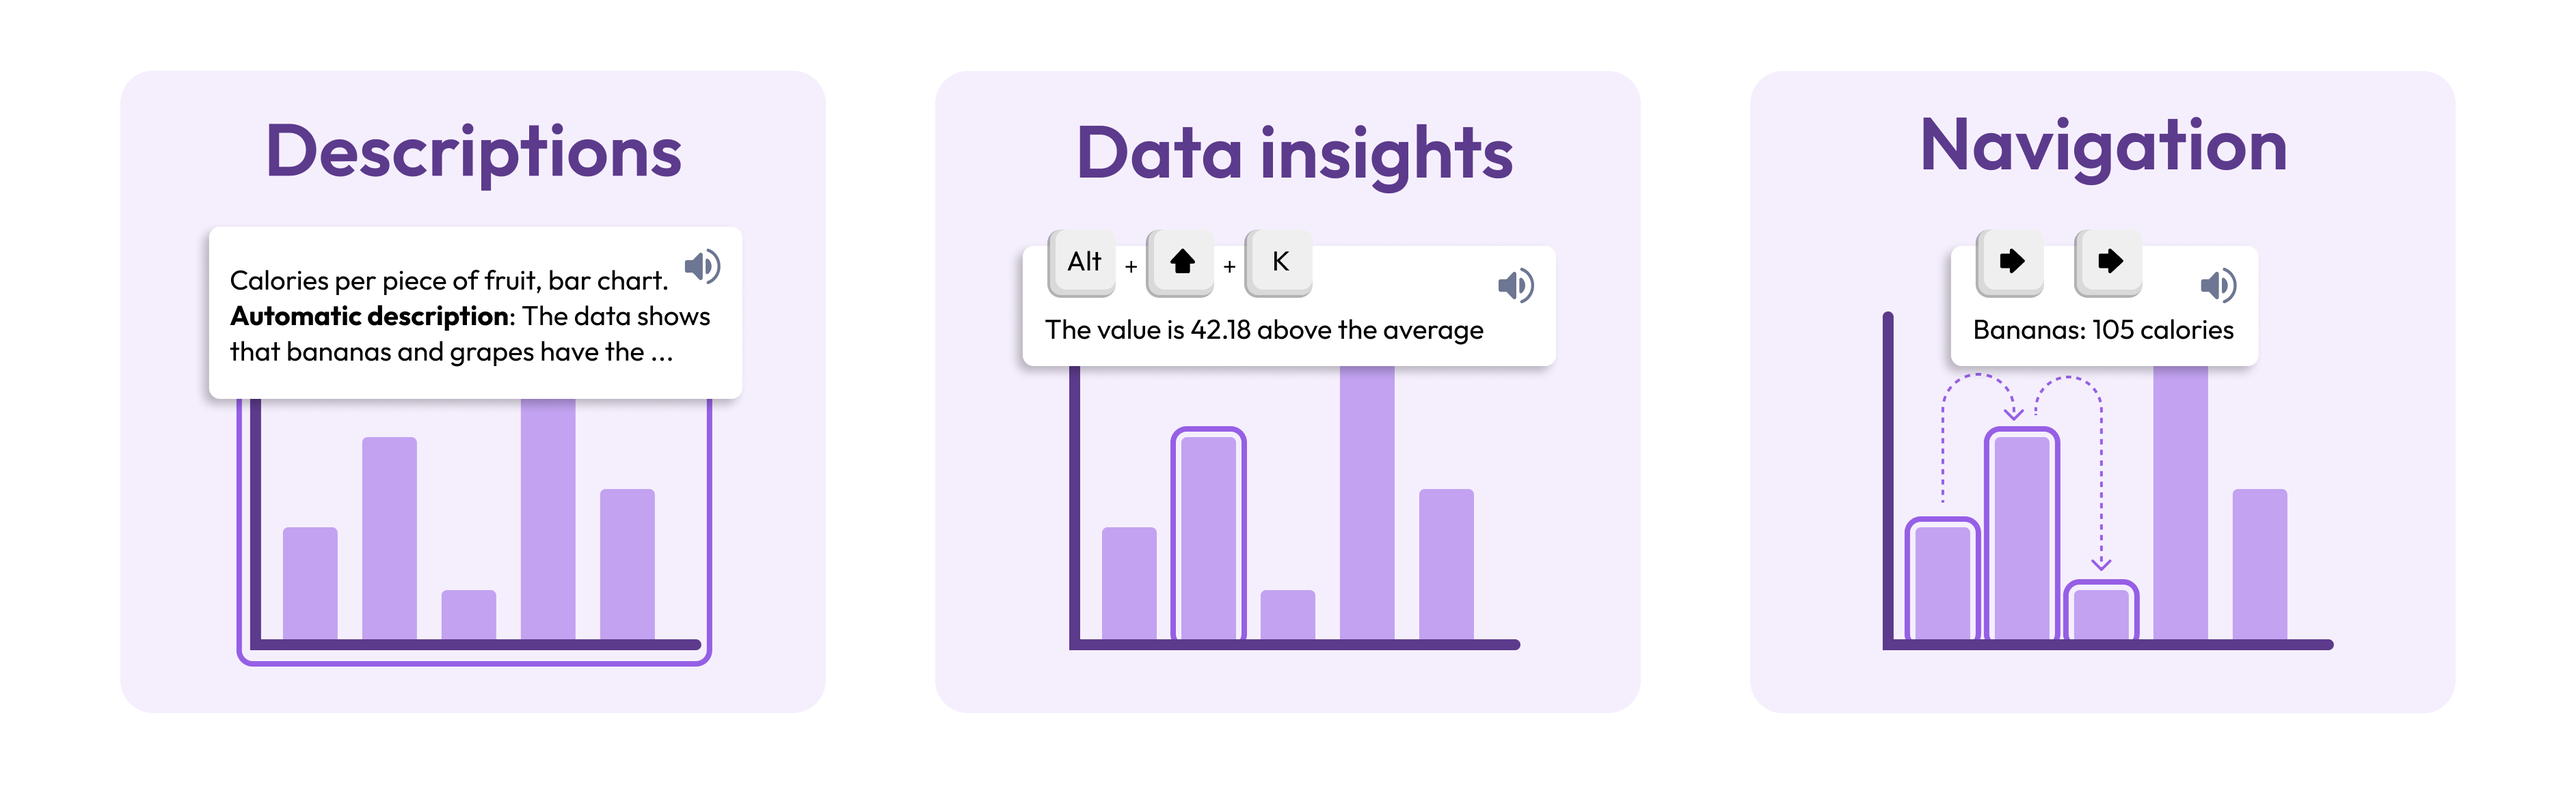
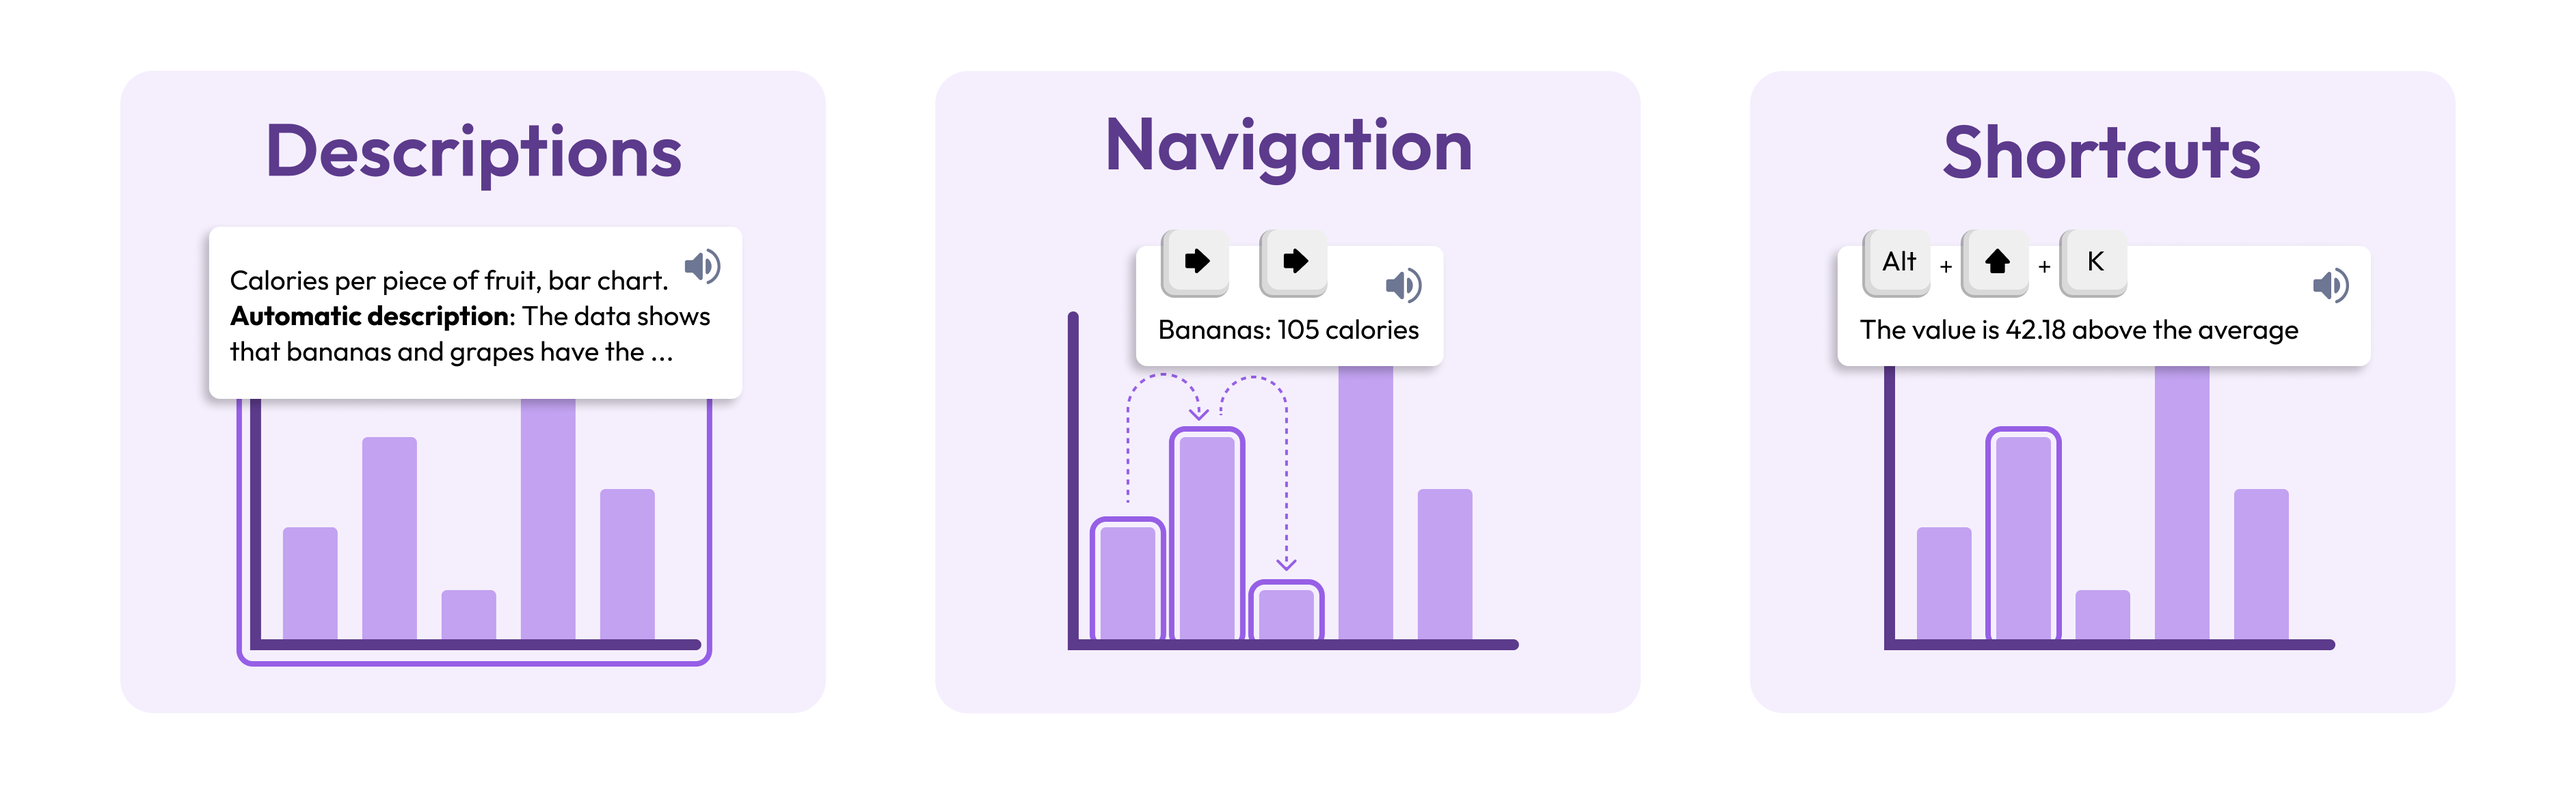
Updated HTML tags of shortcut guide on Readme. Updated order of features in the Readme description

diff --git a/README.md b/README.md
@@ -34,13 +34,13 @@ cd autovizua11y
 
 ### Outputs
 
+- **Descriptions**
+  - Labels for every data element;
+  - Two descriptions, a longer and a shorter, for every data visualization wrapped by AutoVizuA11y. Both are composed of a title, the visualization type, whether the description was automatically generated, and a human-like summary generated using the `gpt-3.5-turbo` model from OpenAI. The shorter description is announced by default once the data visualization gets focused. The descriptions can also be manually written.
 - **Navigation**
   - "Horizontally", between different data visualizations and between data elements;
   - "Vertically", between data visualizations and their underlying data elements;
   - Between different data series (in case more than one exist).
-- **Descriptions**
-  - Labels for every data element;
-  - Two descriptions, a longer and a shorter, for every data visualization wrapped by AutoVizuA11y. Both are composed of a title, the visualization type, whether the description was automatically generated, and a human-like summary generated using the `gpt-3.5-turbo` model from OpenAI. The shorter description is announced by default once the data visualization gets focused. The descriptions can also be manually written.
 - **Shortcuts**
   - QOL navigation shortcuts that increase speed and efficiency in the exploration of a chart;
   - Shortcuts that offer statistical insights about the data on demand;
@@ -237,11 +237,10 @@ The Shortcut Guide is the only aspect of AutoVizuA11y that is also visual. You m
 | shortcut-guide\_\_body              | div    |
 | shortcut-guide\_\_section           | div    |
 | shortcut-guide\_\_list--title       | h3     |
-| shortcut-guide\_\_list              | dl     |
-| shortcut-guide\_\_row               | div    |
-| shortcut-guide\_\_cell              | div    |
+| shortcut-guide\_\_list              | div    |
+| shortcut-guide\_\_row               | dl     |
 | shortcut-guide\_\_cell--shortcut    | dt     |
-| shortcut-guide\_\_cell--explanation | dl     |
+| shortcut-guide\_\_cell--explanation | dd     |
 
 ## Citing AutoVizuA11y
 
